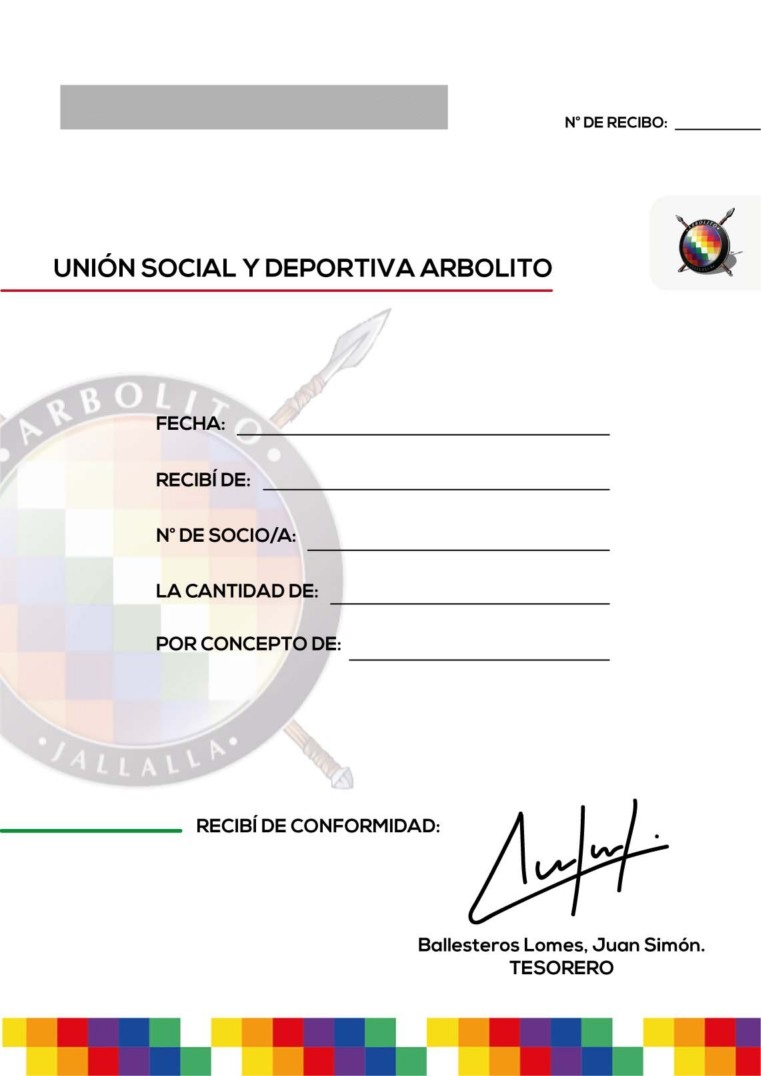
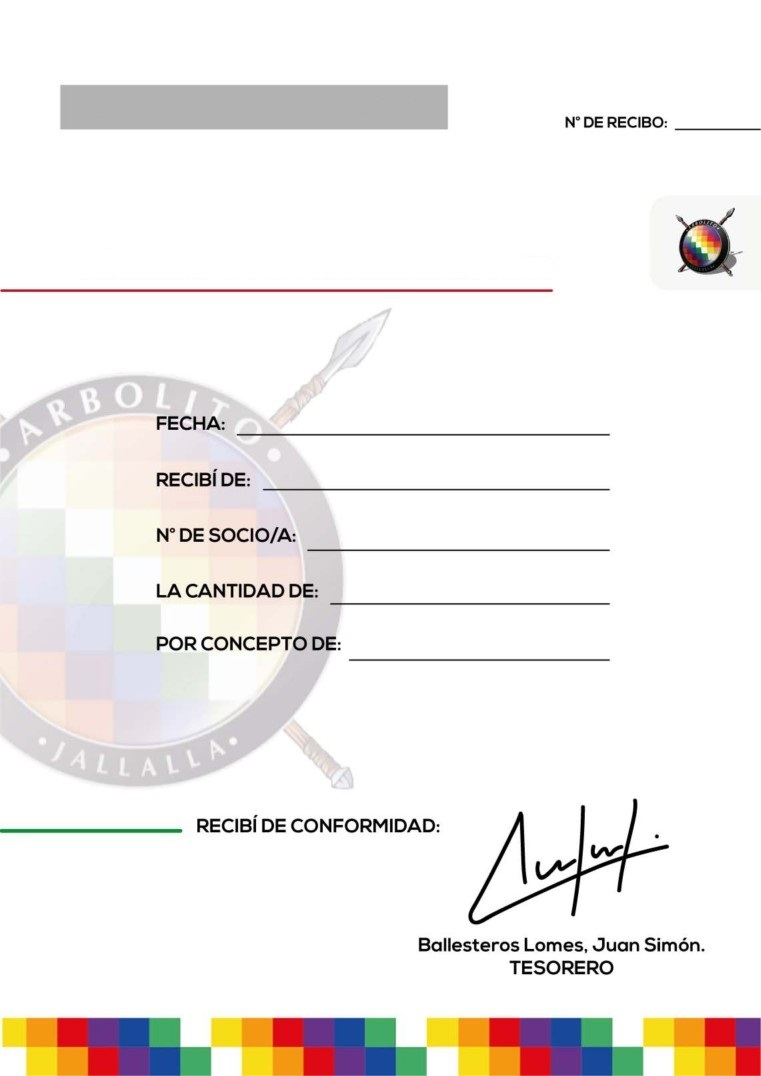
Quitar "deportiva"

Changed region(s): [[0.0604, 0.2147, 0.7254, 0.276]]

diff --git a/src/main/php/Arbolito/UI/components/pdf/venta/VentaPDF.htm b/src/main/php/Arbolito/UI/components/pdf/venta/VentaPDF.htm
@@ -33,7 +33,13 @@
                       {nroComprobante} </p>
               </td>
           </tr>
+          <tr>
+              <td colspan="2">
+                  <p style="font-size:18pt;font-weight: bold;font-family: 'Open Sans', sans-serif; margin-left: 100px;margin-top: 115px;">UNIÓN SOCIAL ARBOLITO</p>
 
+              </td>
+
+          </tr>
 
       </table>
 
